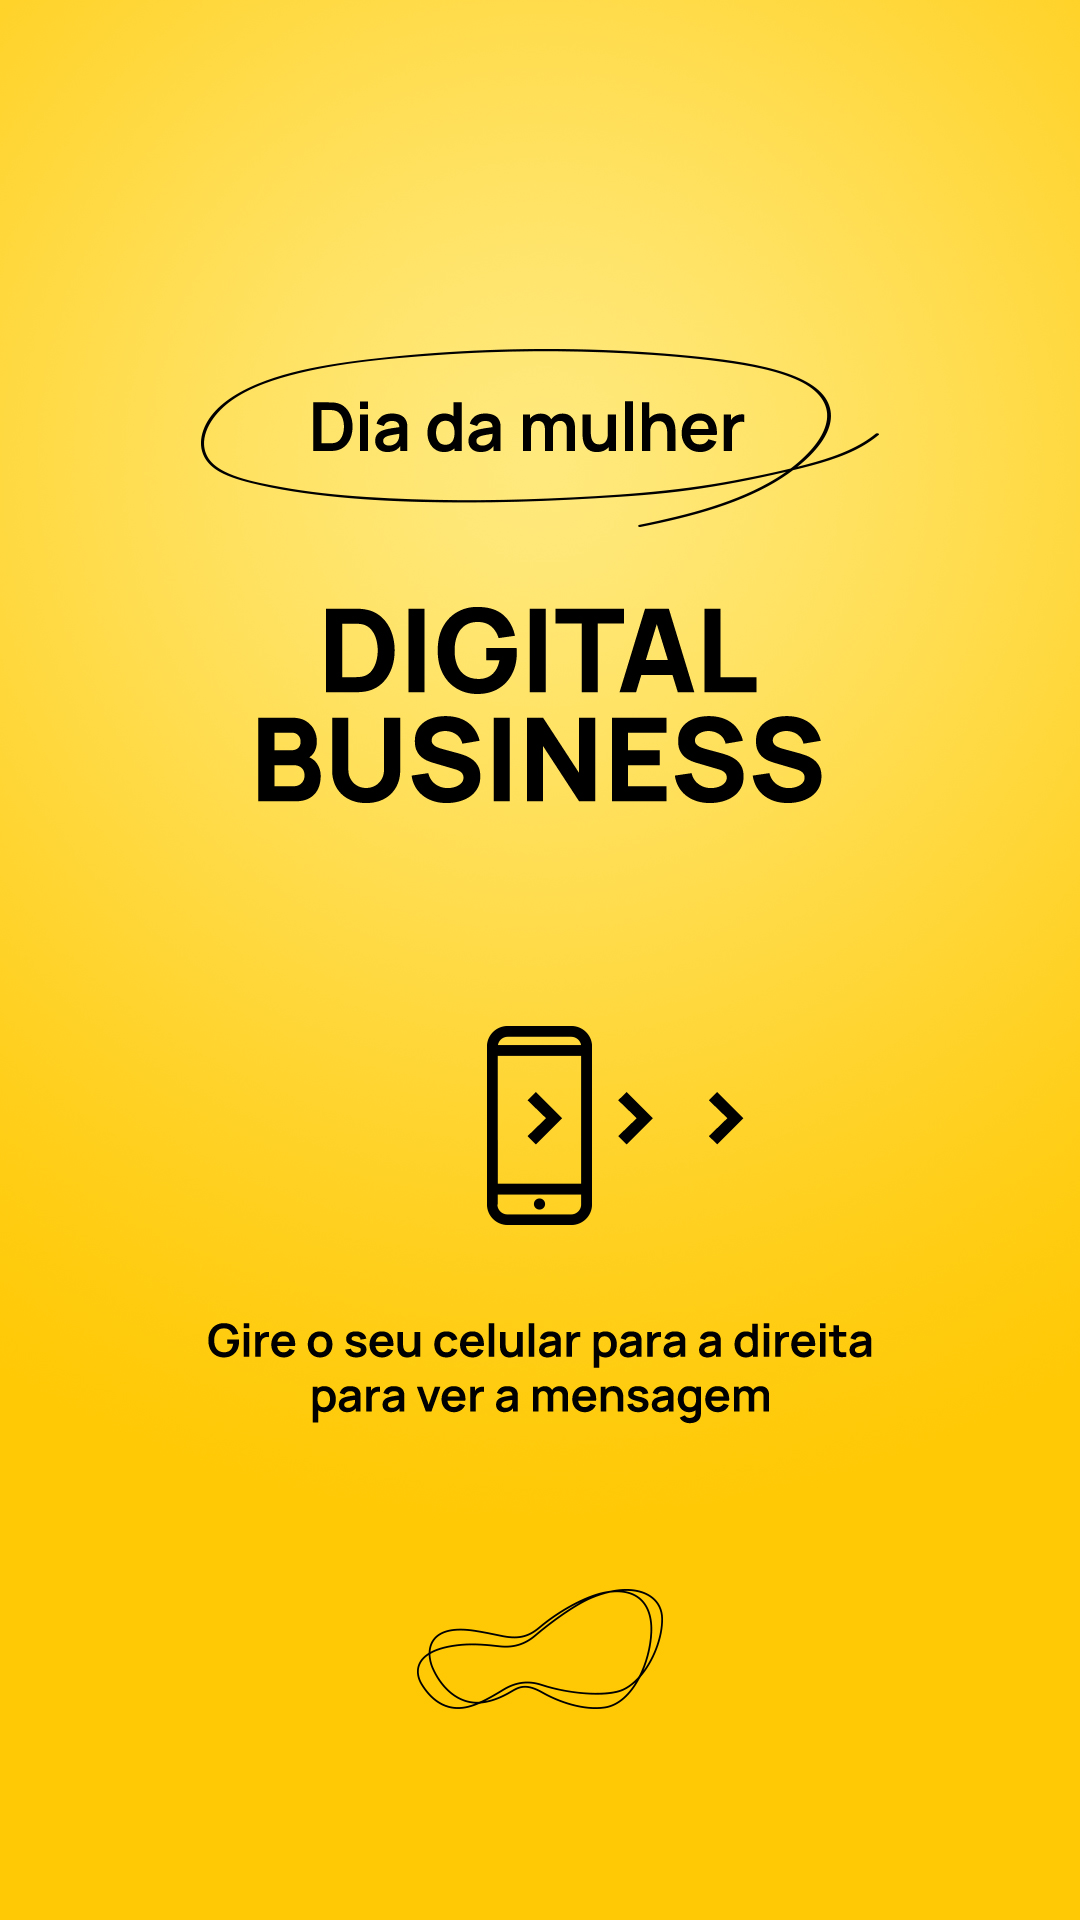
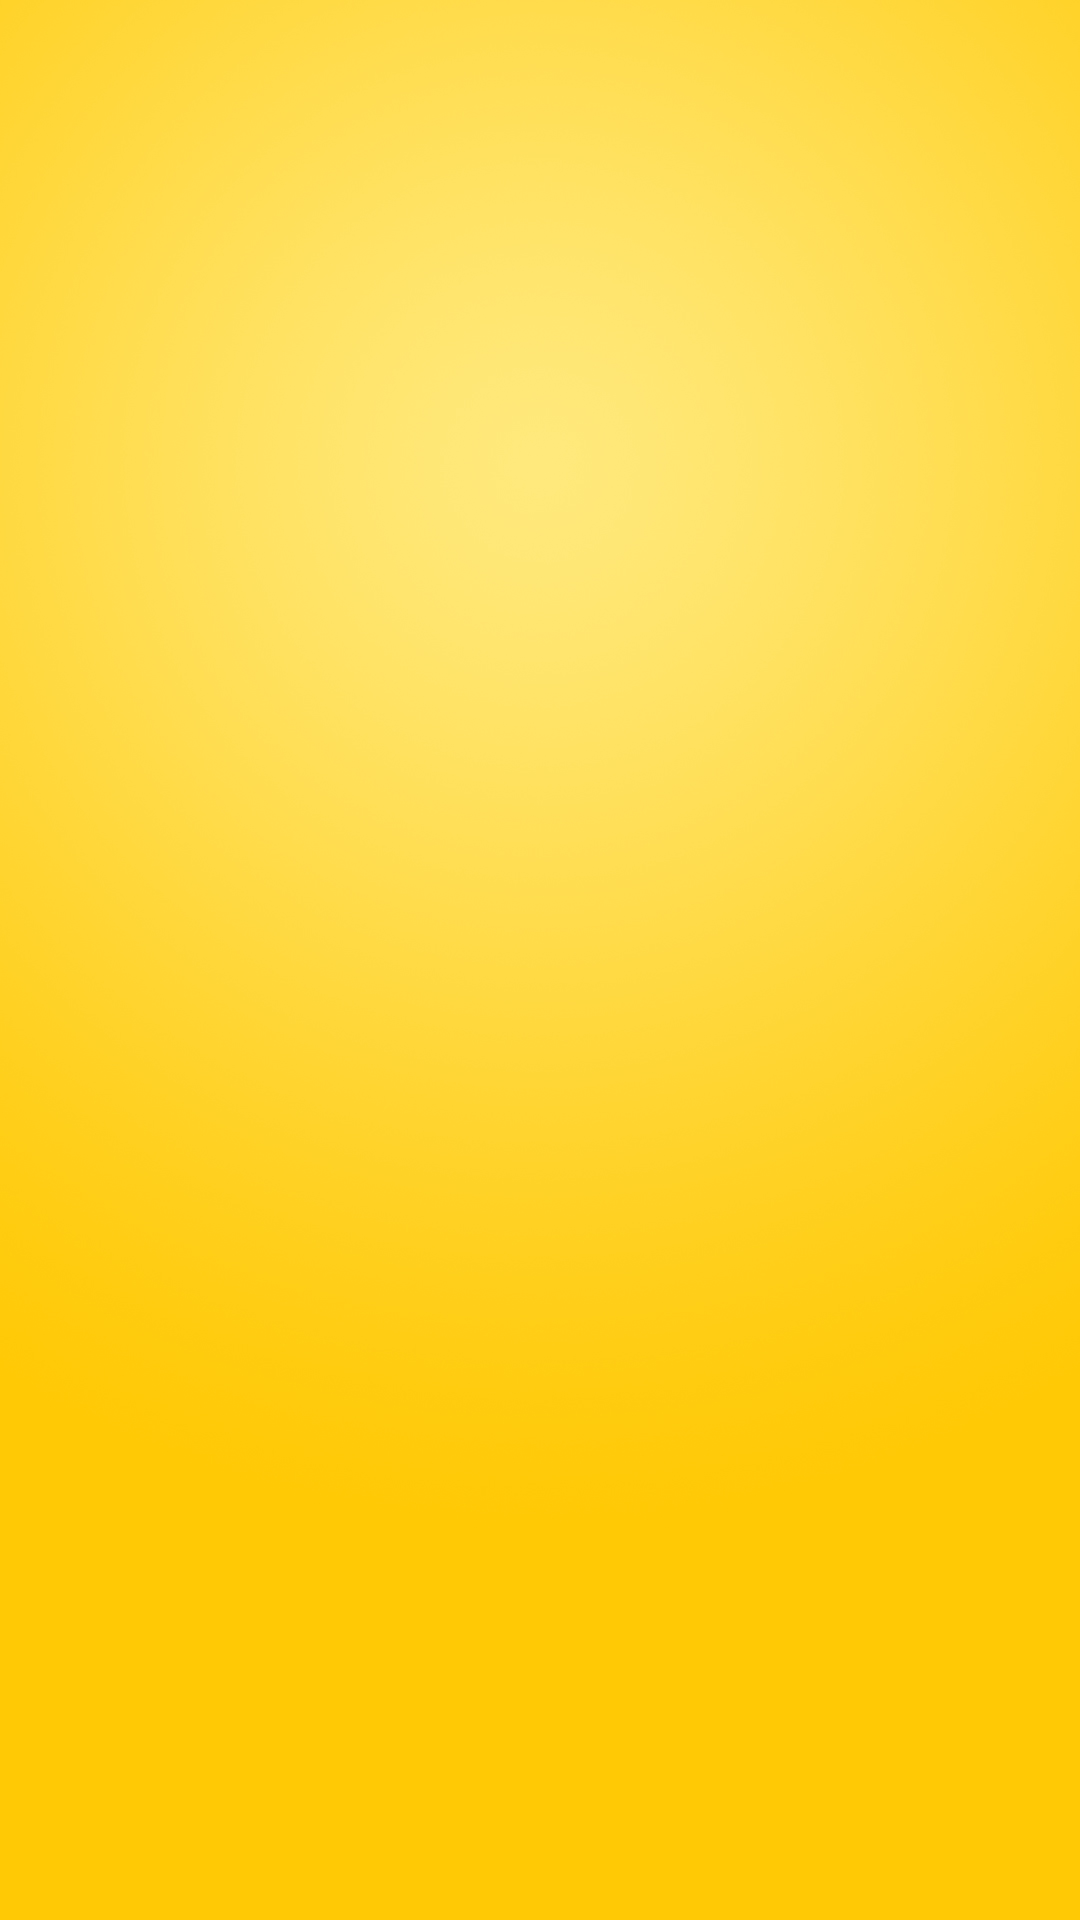
Update initial screen

diff --git a/index.html b/index.html
@@ -61,21 +61,15 @@
 
             <!-- CAMERA RIG -->
             <a-entity id="rig" position="0 4 0" rotation="0 0 0">
-                <a-camera id="camera" position="0 -3 0" wasd-controls-enabled="false" rotation="0 0 0" far="1000"
-                    fov="50" rotation-reader look-controls
-                    animation__rotateCamera="property: rotation; startEvents: rotateCamera;"
-                    animation__moveCamera="property: position; startEvents: moveCamera;">
+                <a-camera id="camera" position="0 -3 0" wasd-controls-enabled="false" rotation="0 0 0" far="1000" fov="50" rotation-reader look-controls animation__rotateCamera="property: rotation; startEvents: rotateCamera;" animation__moveCamera="property: position; startEvents: moveCamera;">
                     <!-- <a-cursor></a-cursor> -->
                 </a-camera>
             </a-entity>
 
             <!-- PLANE -->
-            <a-plane id="floor" color="#1F58AF" material="src: #sea" geometry="" rotation="-90 0 0" scale="20 20"
-                position="0 -9.9 0"></a-plane>
+            <a-plane id="floor" color="#1F58AF" material="src: #sea" geometry="" rotation="-90 0 0" scale="20 20" position="0 -9.9 0"></a-plane>
             <!-- SEA -->
-            <a-cylinder id="sea" segments-height="4" segments-radial="30"
-                material="shader: flat; side: back; transparent: true; src: #sea" radius="3" rotation="0 -66 0"
-                position="0 1 0" scale="3 6 3" open-ended="true">
+            <a-cylinder id="sea" segments-height="4" segments-radial="30" material="shader: flat; side: back; transparent: true; src: #sea" radius="3" rotation="0 -66 0" position="0 1 0" scale="3 6 3" open-ended="true">
             </a-cylinder>
 
             <!-- CENTER IMAGE -->
@@ -87,19 +81,30 @@
     </div>
 
     <div class="loading-screen">
-        <div class="bg-load"></div>
-        <div class="loadScreen-elements">
 
-            <!-- LOAD BAR -->
-            <!-- <div class="ldBar" data-type="fill" data-img="assets/load-img.png" data-fill-background="transparent"
-                data-fill-dir="ltr" data-img-size="100,100"></div> -->
-            <!-- TXT -->
-            <div class="load-txt-container">
-                <img src="assets/load-txt.png" class="load-txt-1">
-                <img src="assets/load-txt-click.png" class="load-txt-2">
+        <div id="load-bg"></div>
+        <div id="loading-elements">
+            <div id="dia-mulher-text">
+                <img src="assets/dia-mulher-text.png" class="dia-mulher-text">
+            </div>
+            <div id="logo-text">
+                <img src="assets/logo-text.png" class="logo-text">
             </div>
 
+            <div id="phone-container">
+                <img src="assets/phone.png" class="pos-r phone-anim">
+                <img src="assets/phone-arrow.png" class="pos-a arrow-anim">
+            </div>
+
+            <div id="loading-text">
+                <img src="assets/page-1-text.png" class="loading-text-anim">
+            </div>
+
+            <div id="logo">
+                <img src="assets/logo-db.png" class="logo-db-anim">
+            </div>
         </div>
+
     </div>
 
     <!-- SCRIPTS -->

diff --git a/js/index.js b/js/index.js
@@ -1,12 +1,22 @@
 var container = document.querySelector(".container")
-/* construct manually */
-var bar = new ldBar(".ldBar");
 var firstClick = true;
+// var bar = new ldBar(".ldBar");
+
+var startPage = gsap.timeline({ paused: true });
+
+startPage
+    .addLabel('start')
+    .to('.dia-mulher-text', .7, { scale: 1, opacity: 1, rotationZ: '0.01deg', ease: 'power2.out' }, "start+=" + .1)
+    .to('.logo-text', 1, { opacity: 1, ease: 'power1.out' }, "start+=" + .1)
+    .to('.phone-anim', .8, { opacity: 1, scale: 1, rotationZ: '0.01deg', ease: 'power1.out' }, "start+=" + .4)
+    .to('.arrow-anim', .6, { opacity: 1, x: 0, rotationZ: '0.01deg', ease: 'back(1.8).out' }, "start+=" + .6)
+    .to('.loading-text-anim', 1, { opacity: 1, ease: 'power1.out' }, "start+=" + .7)
+    .to('.logo-db-anim', 1, { opacity: 1, scale: 1, rotationZ: '0.01deg', ease: 'back(1.8).out' }, "start+=" + .7)
 
 window.addEventListener("load", function () {
-    bar.set(100);
-    gsap.to(".load-txt-1", .6, { opacity: 0, ease: "power2.out", delay: .7 });
-    gsap.to(".load-txt-2", .6, { opacity: 1, ease: "power2.out", delay: .8  });
+    // bar.set(100);
+
+    startPage.play();
 
     // document.body.addEventListener("click", function () {
     //     if (firstClick) {

diff --git a/css/styles.css b/css/styles.css
@@ -73,3 +73,80 @@ body {
 img {
     width: 100%;
 }
+
+.pos-r {
+    position: relative;
+}
+
+.pos-a {
+    position: absolute;
+    top: 0;
+    left: 0;
+}
+
+#load-bg {
+    position: absolute;
+    top: 0;
+    left: 0;
+    width: 100%;
+    height: 100%;
+    background-image: url(../assets/bg-loadScreen.jpg);
+}
+
+#loading-elements {
+    position: absolute;
+    top: 53%;
+    left: 50%;
+    max-width: 66%;
+    width: 37vh;
+    transform: translate(-50%, -50%);
+}
+
+#dia-mulher-text {
+    position: relative;
+    margin-bottom: 12%;
+    width: 100%;
+}
+
+#logo-text {
+    position: relative;
+    margin: 0 auto 30% auto;
+    width: 80%;
+}
+
+#phone-container {
+    position: relative;
+    margin: 0 auto 13% auto;
+    width: 57%;
+}
+
+#loading-text {
+    position: relative;
+    margin-bottom: 25%;
+    width: 100%;
+}
+
+#logo {
+    position: relative;
+    margin: 0 auto;
+    width: 35%;
+}
+
+.phone-anim, .dia-mulher-text {
+    transform: scale(.8);
+    opacity: 0;
+}
+
+.arrow-anim {
+    transform: translateX(-15%);
+    opacity: 0;
+}
+
+.loading-text-anim, .logo-text {
+    opacity: 0;
+}
+
+.logo-db-anim {
+    transform: scale(.85);
+    opacity: 0;
+}
